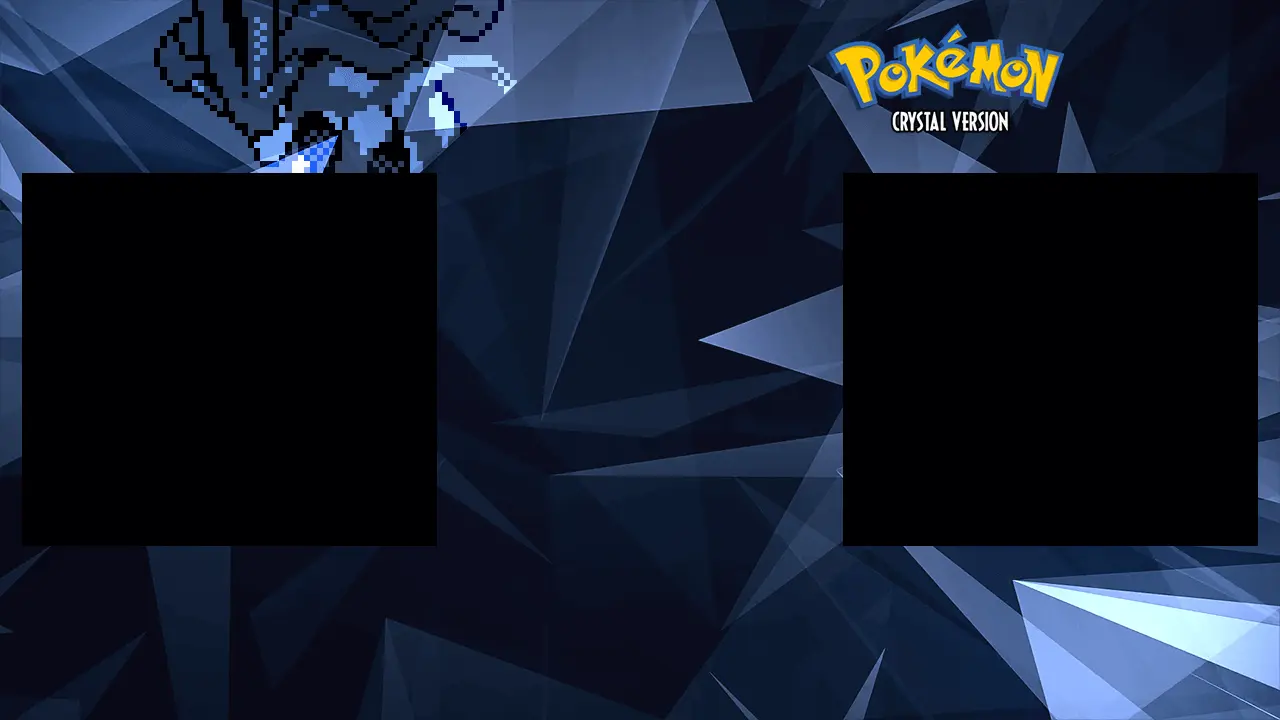
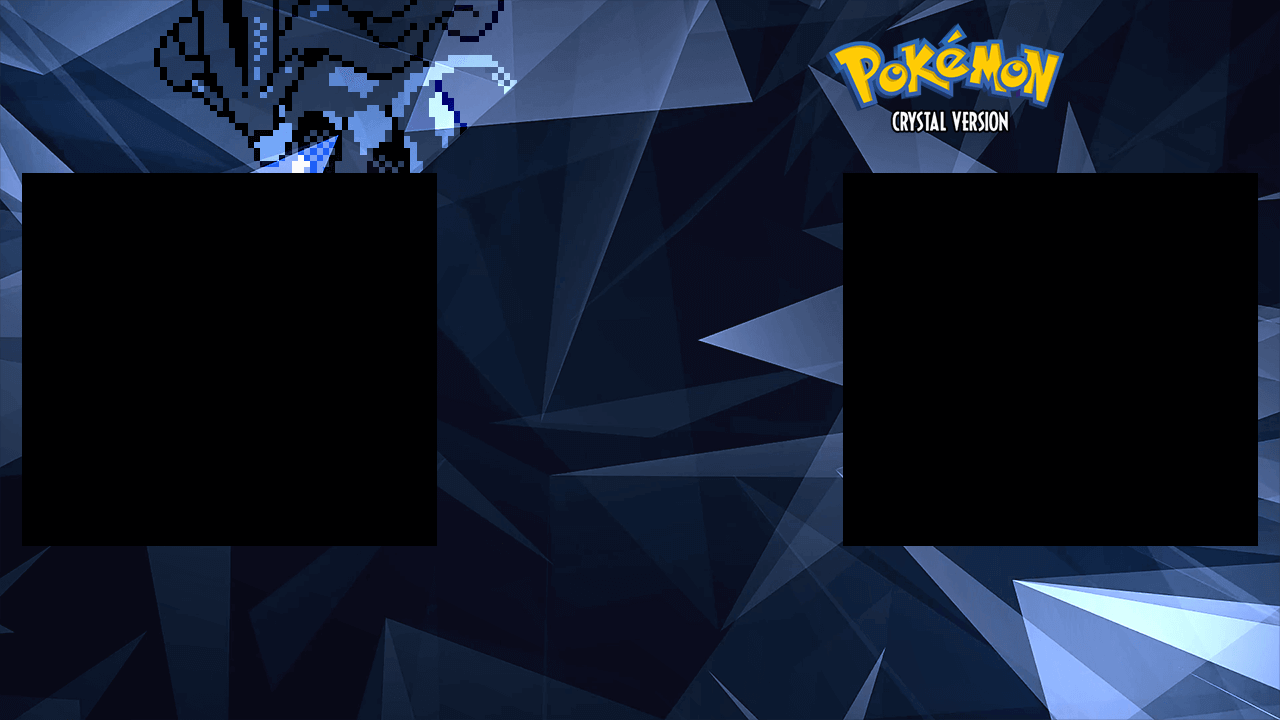
crystal background updates

Changed region(s): [[0.6562, 0.0306, 0.8438, 0.1528], [0.1875, 0.2139, 0.25, 0.2444], [0.25, 0.1528, 0.2812, 0.1833]]

diff --git a/public/pokemoncrystal/two.css b/public/pokemoncrystal/two.css
@@ -5,8 +5,8 @@
 }
 
 :root{
-    --conicalFallback: repeating-conic-gradient(from 0deg at 25% -150%, rgba(255,255,255,.1) 0 10deg, rgba(255,255,255,0) 10deg 30deg, rgba(255,255,255,.2) 30deg 35deg),
-    repeating-conic-gradient(from 0deg at 75% 150%, #0d1632 0 20deg, #436295 20deg 30deg, #0d1632 30deg 50deg);
+    --conicalFallback: repeating-conic-gradient(at 0 -31%, rgba(255,255,255,.07) 0 7deg, transparent 0 11deg, rgba(255,255,255,.033) 0 31deg, transparent 0 37deg),
+    repeating-conic-gradient(at 33% 150%, #0d1632 0 17deg, #436295 0 27deg, #0d1632 0 31deg, #436295 0 37deg);
     --border-1: solid 1px rgba(255,255,255,.75);
     --background-color-1: #000;
     --margin: 0px;
@@ -55,13 +55,13 @@ html{
 }
 
 @supports not (background-image:conic-gradient(#fff,#000)){
-    .notwebp .layout{background-image: url('images/Crystal_v3_2p_no_title.jpg');}
+    .notwebp .layout{background-image: url('images/Crystal_v3_2p_no_title.png');}
     .webp .layout{background-image: url('images/Crystal_v3_2p_no_title.webp');}
 }
 
 @supports (background-image:conic-gradient(#fff,#000)){
-    .notwebp .layout{background-image: url('images/Crystal_v3_2p_no_title.jpg'), var(--conicalFallback);}
-    .webp .layout{background-image: url('images/Crystal_v3_2p_no_title.webp'), var(--conicalFallback);}    
+    .notwebp .layout{background-image: url('images/Crystal_v3_2p_no_title.png'), var(--conicalFallback);}
+    .webp .layout{background-image: url('images/Crystal_v3_2p_no_title.webp'), var(--conicalFallback);}
 }
 
 .title{
@@ -214,6 +214,7 @@ html{
     height: 32px;
     border-radius: 50%;
     box-shadow: inset 1px 1px 1px rgba(0,0,0,.25), inset -1px -1px 1px rgba(0,0,0,.25);
+    background-color: #FF9C12;
 }
 
 img.orange{background-image: linear-gradient(#FF9C12, #D0800F);}
@@ -260,7 +261,6 @@ tr-toggle-class, .in-active {
     background-size: 500% 400%;
     background-position: 100% 33%;
 }
-
 
 .player-winner{
     font-weight: bold;

diff --git a/public/pokemoncrystal/four.css b/public/pokemoncrystal/four.css
@@ -52,13 +52,11 @@ html{
 }
 
 @supports not (background-image:conic-gradient(#fff,#000)){
-    .notwebp .layout{background-image: url('images/Crystal_v3_blank_bg.jpg');}
-    .webp .layout{background-image: url('images/Crystal_v3_blank_bg.webp');}
+    .layout{background-image: url('images/Crystal_v3_blank_bg.jpg');}
 }
 
 @supports (background-image:conic-gradient(#fff,#000)){
-    .notwebp .layout{background-image: url('images/Crystal_v3_blank_bg.jpg'), var(--conicalFallback);}
-    .webp .layout{background-image: url('images/Crystal_v3_blank_bg.webp'), var(--conicalFallback);}
+    .layout{background-image: url('images/Crystal_v3_blank_bg.jpg'), var(--conicalFallback);}
 }
 
 .title{

diff --git a/public/pokemoncrystal/two.html b/public/pokemoncrystal/two.html
@@ -8,7 +8,7 @@
     <link rel="stylesheet" type="text/css" href="../shared/components.css">
     <link rel="stylesheet" type="text/css" href="../shared/menu.css">
     <link rel="stylesheet" type="text/css" href="two.css">
-    <!-- <link rel="preload" href="../shared/images/icons/blank.svg" as="image" type="image/svg+xml"> -->
+    <link rel="preload" href="../shared/images/icons/blank.svg" as="image" type="image/svg+xml">
     <style>
         [player="1"] .player-video {left: var(--videoX); top: var(--videoY);}
         [player="2"] .player-video {right: var(--videoX); top: var(--videoY);}

diff --git a/public/pokemoncrystal/four.html b/public/pokemoncrystal/four.html
@@ -8,7 +8,7 @@
     <link rel="stylesheet" type="text/css" href="../shared/components.css">
     <link rel="stylesheet" type="text/css" href="../shared/menu.css">
     <link rel="stylesheet" type="text/css" href="four.css">
-    <link rel="preload" href="images/Crystal_v3_blank_bg.webp" as="image" type="image/webp">
+    <link rel="preload" href="images/Crystal_v3_blank_bg.jpg" as="image" type="image/jpg">
     <style>
         [player="1"] .player-video {left: var(--videoX); top: var(--videoY);}
         [player="2"] .player-video {right: var(--videoX); top: var(--videoY);}
